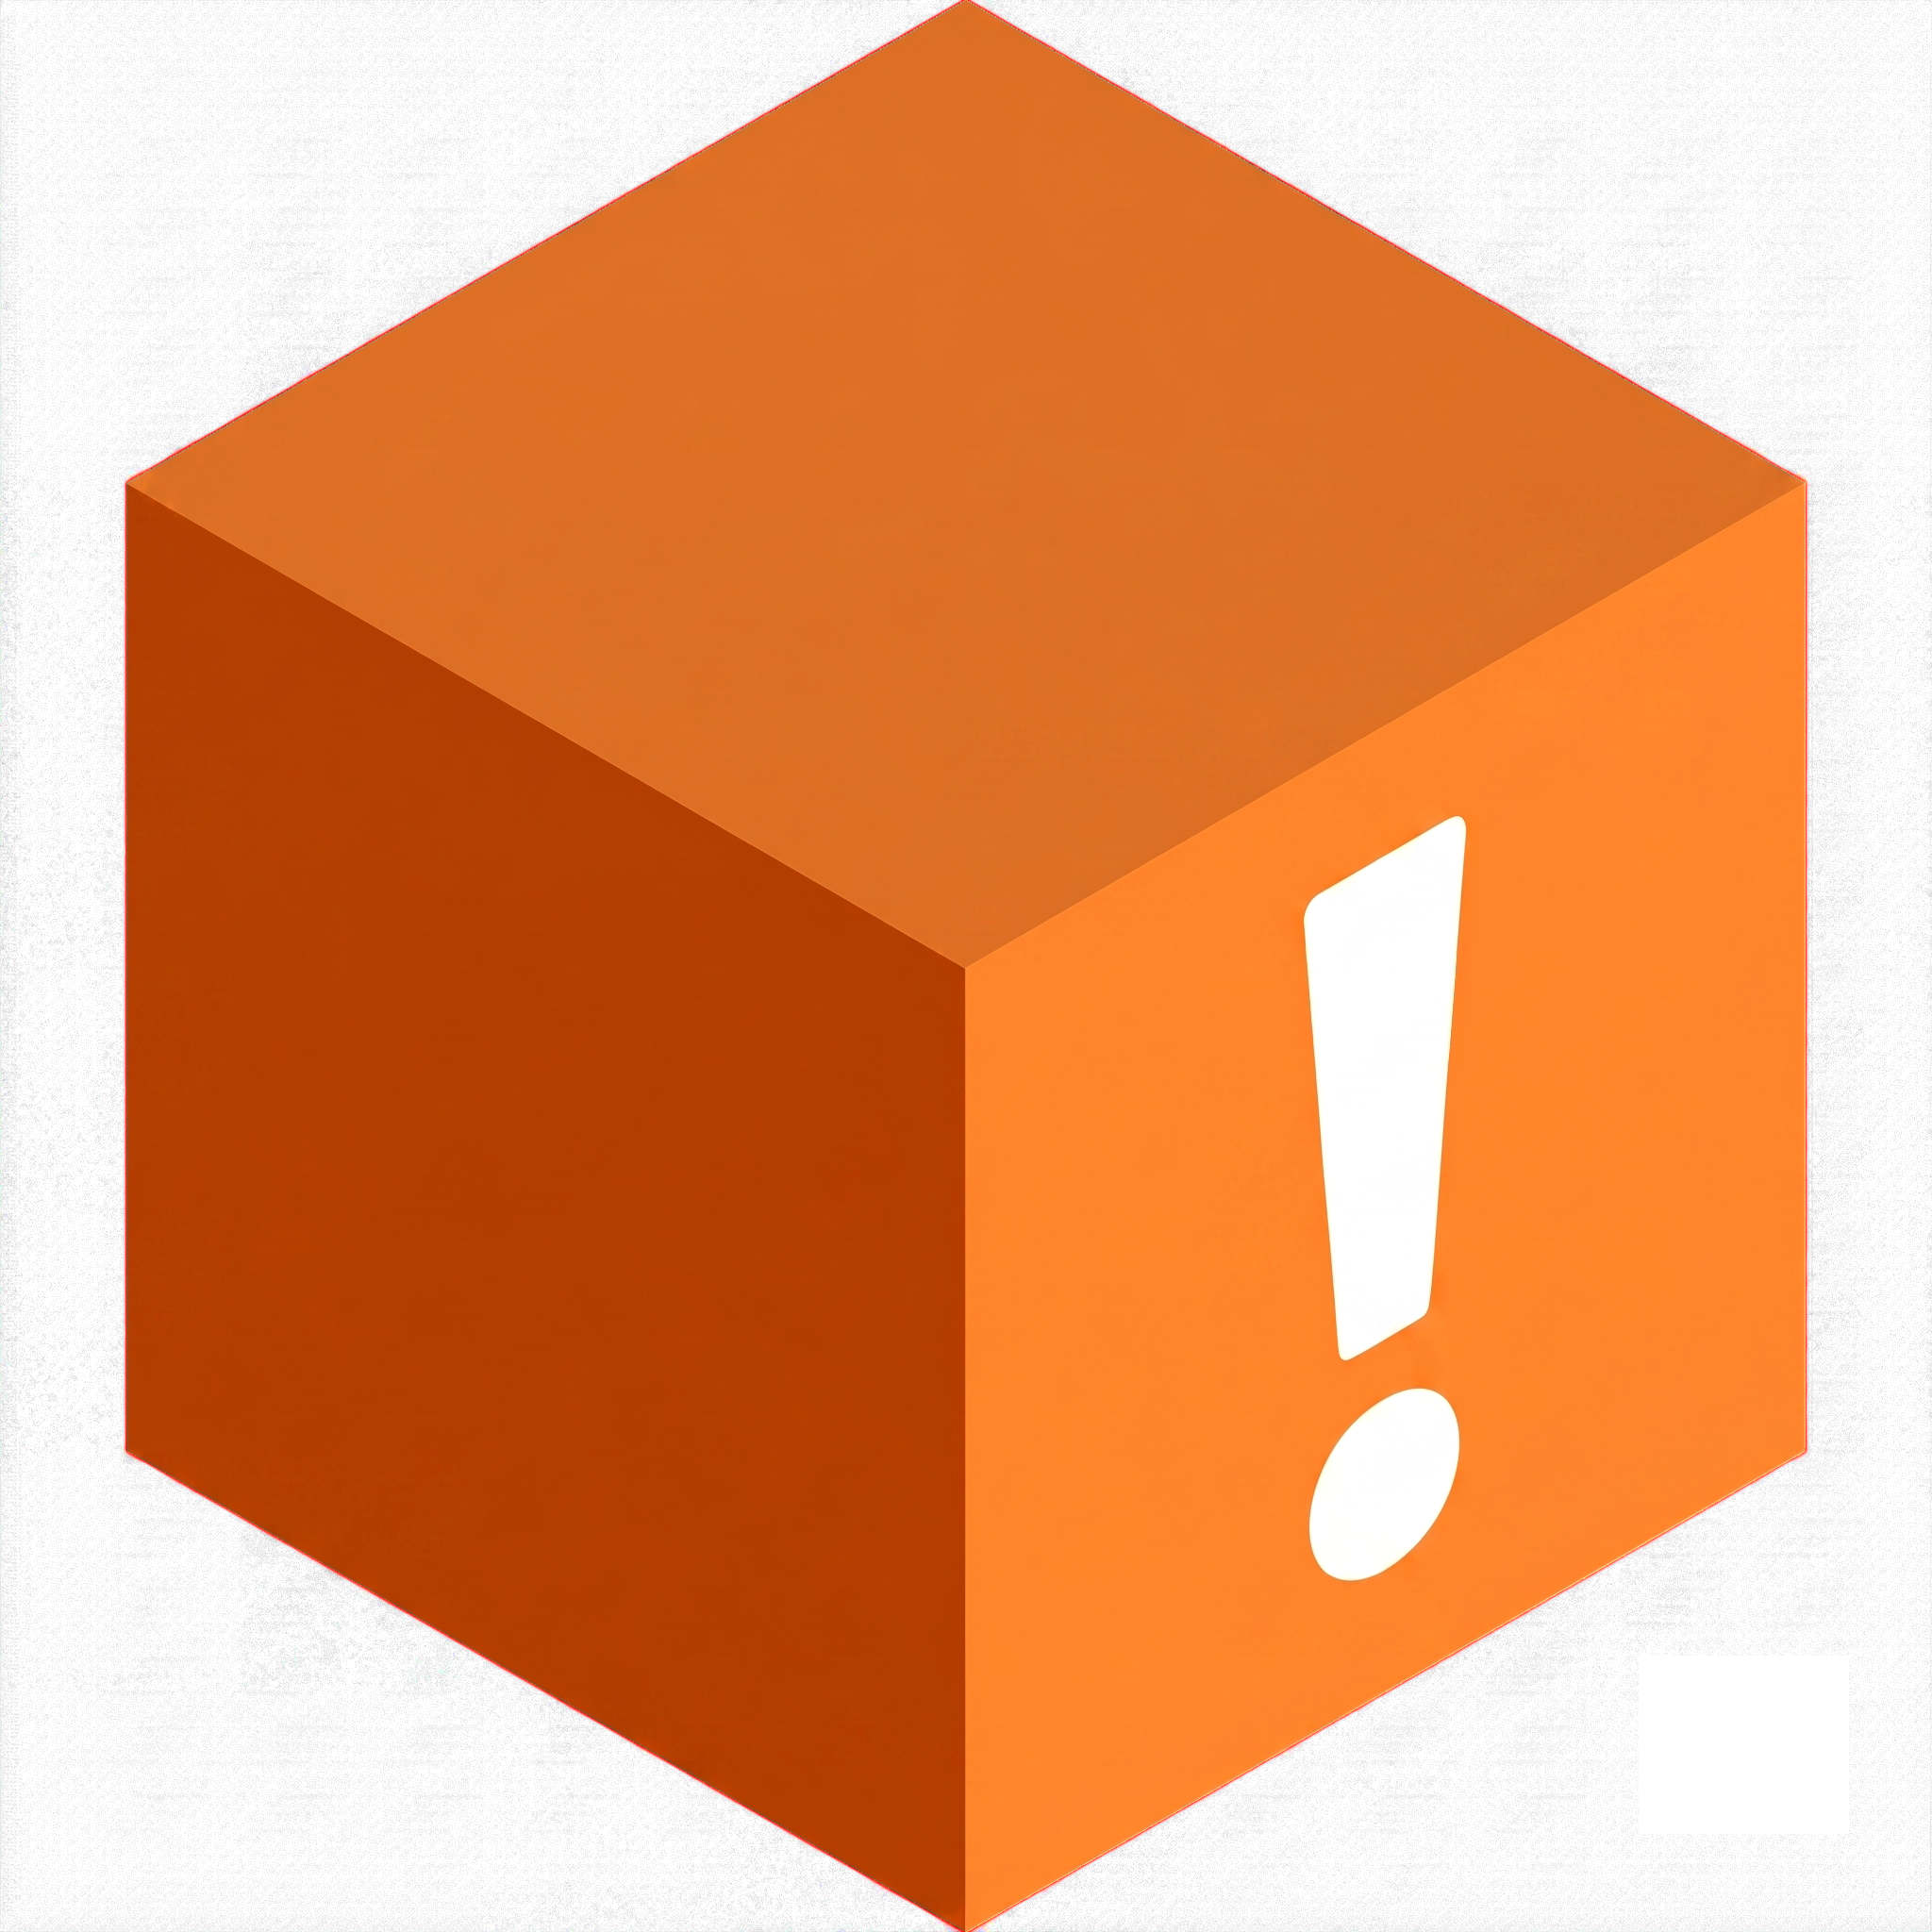
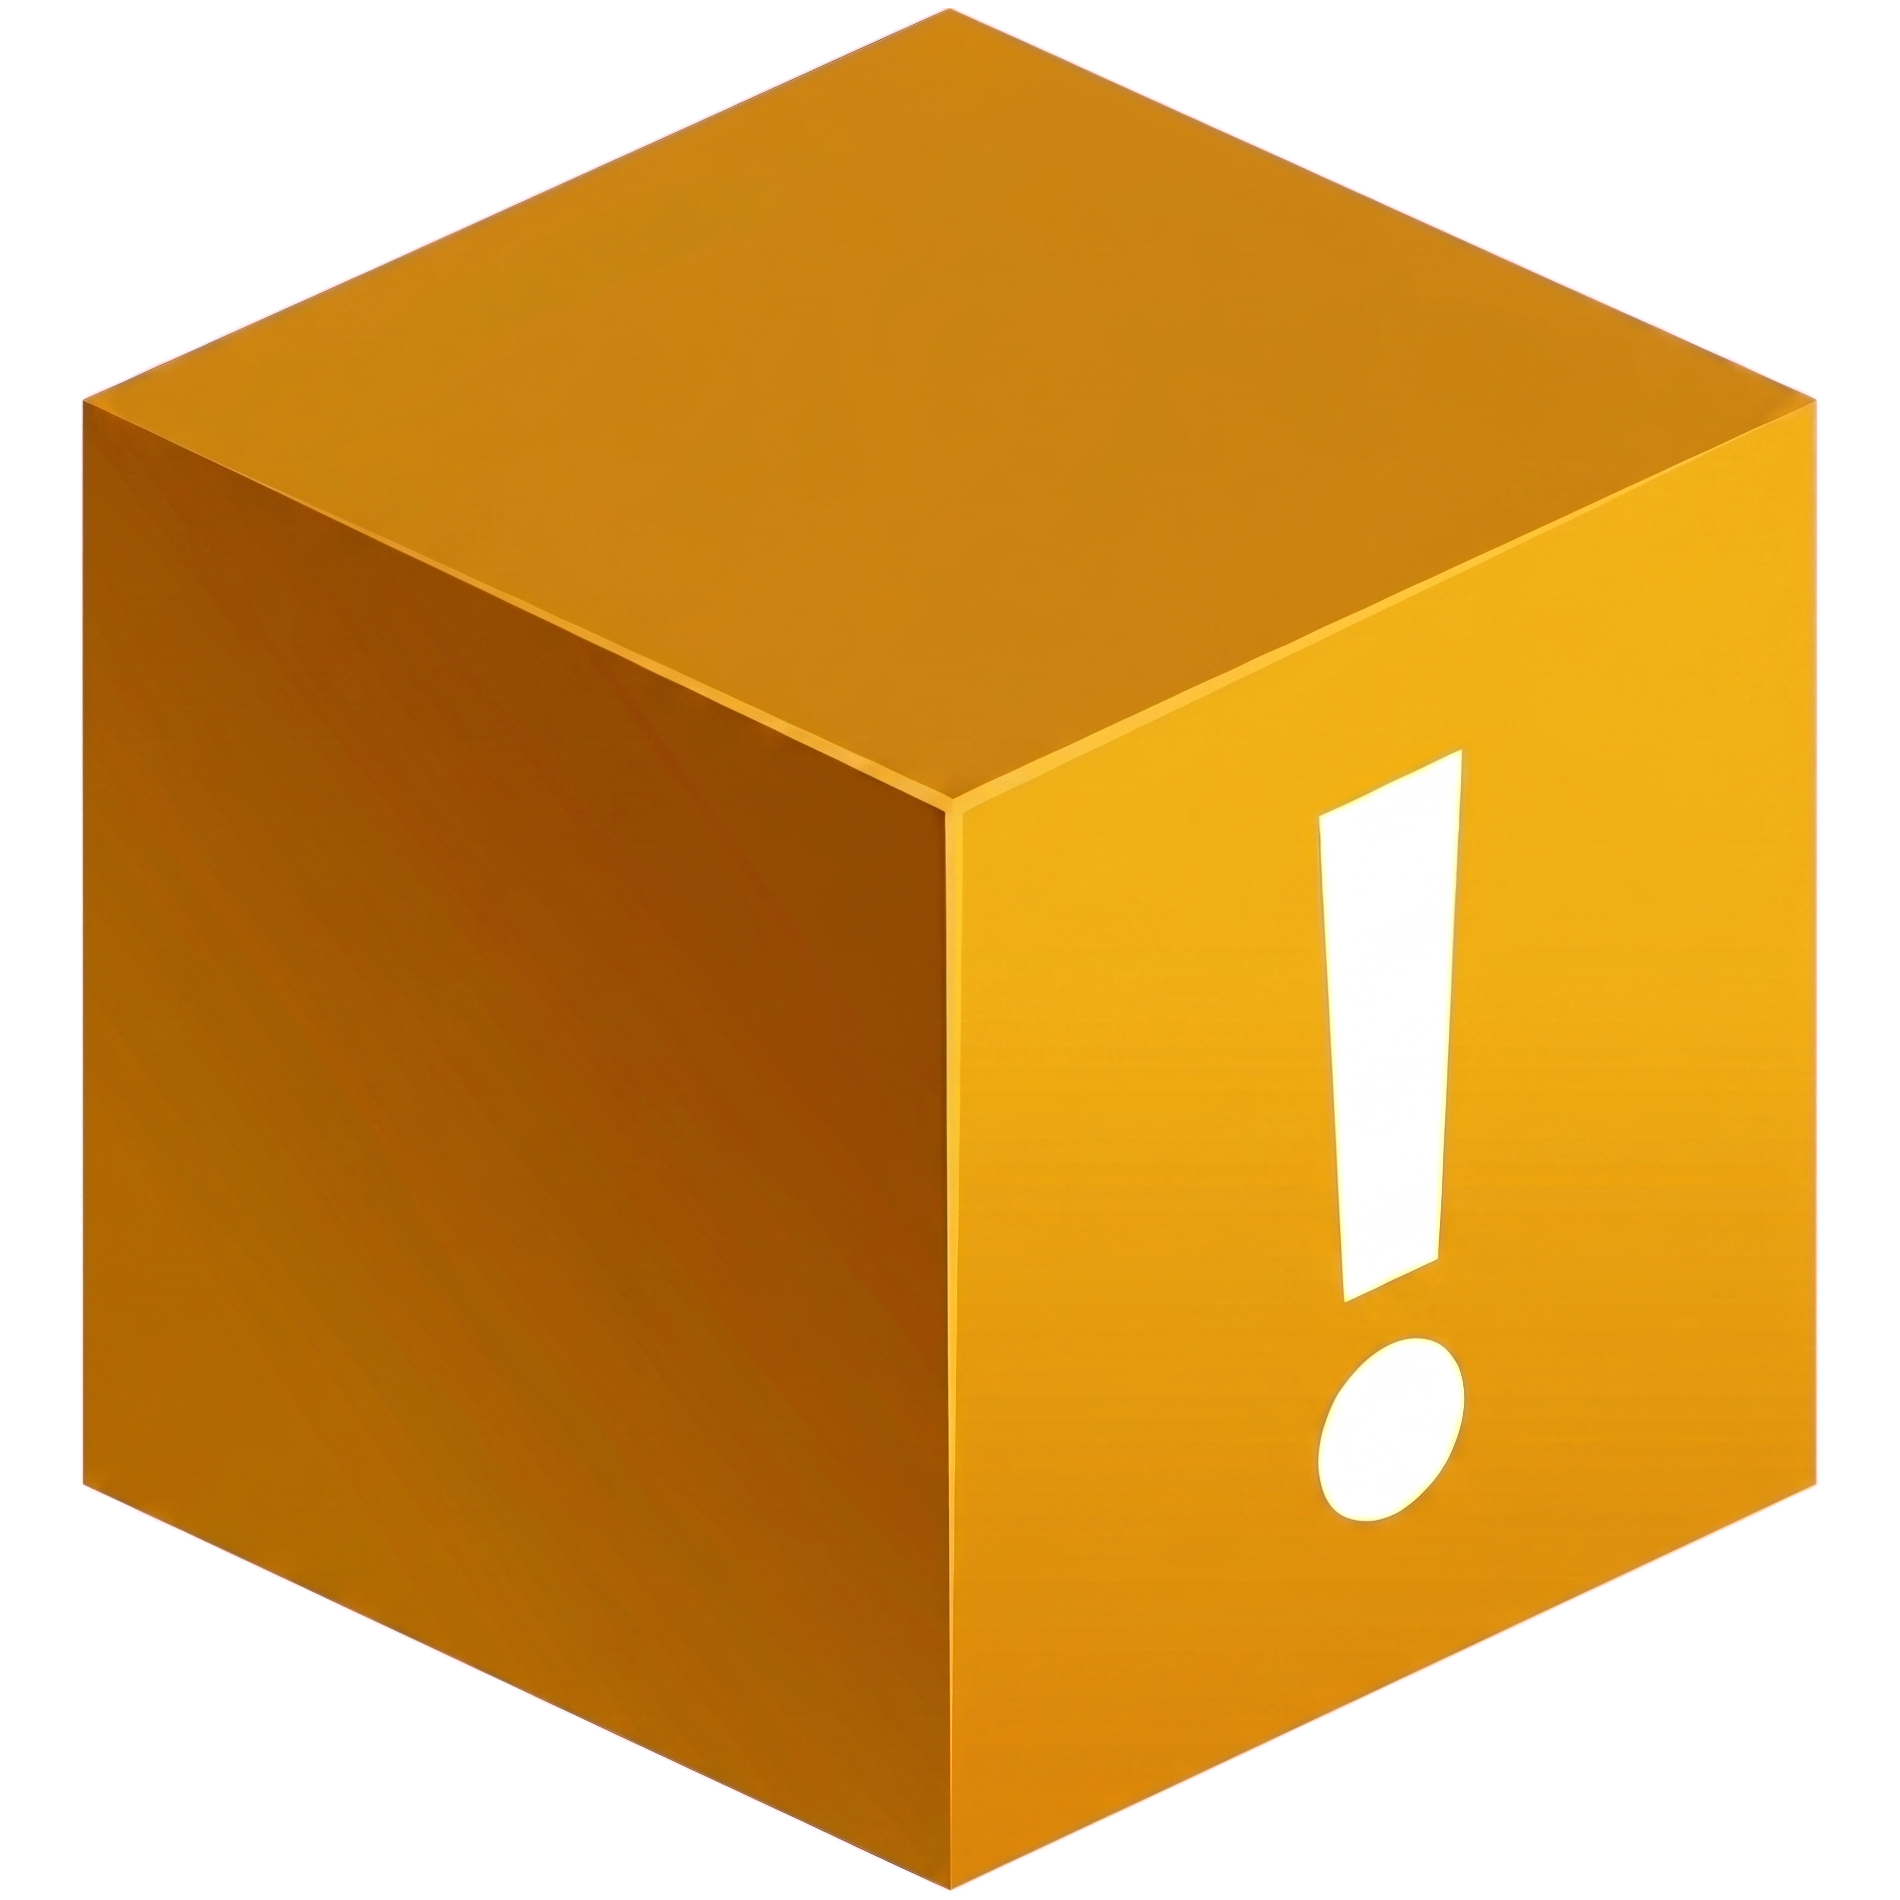
chore: added issue tracking process for features to our system tracking.

diff --git a/.clinerules/system-patterns.md b/.clinerules/system-patterns.md
@@ -33,3 +33,14 @@ Plex/Jellyfin → rclone (FUSE mount) → WebDAV → Warpbox → TorBox API
 ## 6. Decision Tracking
 
 * Always consult decision-log.md before implementing complex logic to avoid repeating failed experiments. Whenever a significant architectural decision is made, a workaround is implemented, or an approach fails, you must immediately document the context, decision, and rationale in decision-log.md.
+
+## 7. Feature & Issue Tracking
+
+* All feature requests, bugs, enhancements, and documentation tasks are tracked
+  as Gitea Issues in the `ben/warpbox` repository.
+* The AI assistant uses the `gitea-mcp` server to create, read, update, and
+  search issues. Labels (`bug`, `enhancement`, `docs`, `infra`,
+  `priority:low/med/high`) and milestones keep the backlog organized.
+* Implementation commits reference issues (e.g., `fix: handle 401 expiry, closes #12`). The issue stays open until the fix is verified in deployment.
+* Before starting any non-trivial work, consult the issue tracker — not the
+  chat history — for context and priorities.